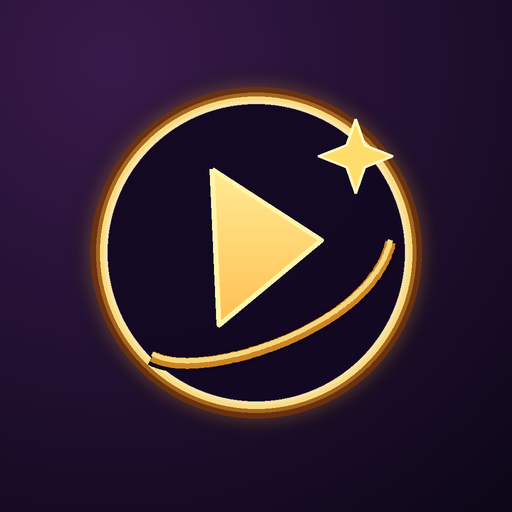
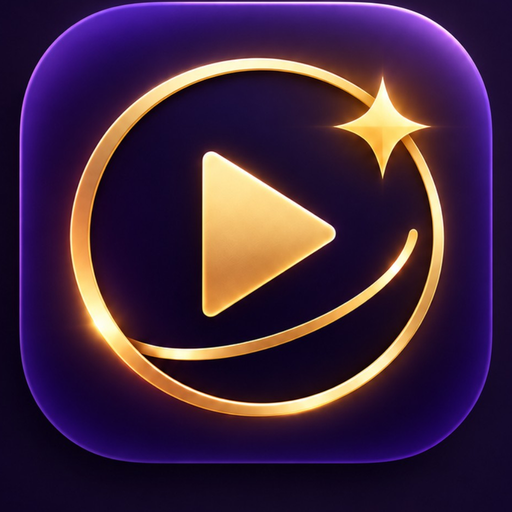
Polish Explore, sync release markers and prepare approved launcher artwork

diff --git a/guides/worldwide-entertainment-discovery/index.html b/guides/worldwide-entertainment-discovery/index.html
@@ -52,9 +52,9 @@ height="0" width="0" style="display:none;visibility:hidden"></iframe></noscript>
 
 <header><div class="brand"><a href="/" aria-label="MatchApp Ai" class="matchapp-brand-link"><img class="matchapp-wordmark" src="/assets/brand/matchapp-tv-ai-v2.svg" alt="MatchApp Ai" width="368" height="66" decoding="async"></a></div><p class="eyebrow">A practical worldwide discovery guide</p>
 <h1>What to watch, read or listen to — in your language</h1>
-<p class="intro">Choose your mood and what you want to enjoy: a movie, a series, a book, an audiobook, a magazine, music or a podcast. MatchApp’s interface supports 14 languages and helps you explore entertainment from multiple countries. Content and store availability vary by region; always confirm with the linked publisher or provider.</p>
+<p class="intro">For movies and TV series, start on Home and choose your mood, format and streaming preferences. For books, audiobooks, cooking, music, events and news, open Explore more and choose the dedicated category. MatchApp Ai supports 14 interface languages and entertainment from multiple countries. Content and store availability vary by region; always confirm with the linked publisher or provider.</p>
 <nav class="links" aria-label="Jump to discovery categories">
-<a href="/">Find what to watch</a> <a href="/ebooks/">Match e-books and audiobooks</a>
+<a href="/">Movies and TV on Home</a> <a href="/explore.html">Explore more categories</a> <a href="/ebooks/">Match e-books and audiobooks</a> <a href="/cooking/">Cooking and recipes</a>
 <a href="/discover.html">Ask AI</a> <a href="/news/">Latest news</a> <a href="/events-archive.html">Global events</a>
 </nav></header>
 <main>
@@ -65,7 +65,7 @@ height="0" width="0" style="display:none;visibility:hidden"></iframe></noscript>
 <article class="route"><h3>Books and audiobooks</h3><p>Match e-books by mood and genre. Audiobook links are checked against title and author where supported; search-only store suggestions are not proof that an exact audio edition exists.</p>
 <p><a href="/ebooks/">Find your next e-book or audiobook</a> · <a href="/guides/books-september-2026/">September book guide</a></p></article>
 <article class="route"><h3>Music, podcasts and current stories</h3><p>Explore music and podcasts or browse the current news hub. Trending headlines link to named publishers; MatchApp does not replace the original article.</p>
-<p><a href="/platforms/spotify/">Music and podcasts</a> · <a href="/guides/global-music-september-2026/">September global music guide</a> · <a href="/news/">Latest sourced headlines</a></p></article>
+<p><a href="/explore.html">Explore entertainment categories</a> · <a href="/platforms/spotify/">Music and podcasts</a> · <a href="/guides/global-music-september-2026/">September global music guide</a> · <a href="/news/">Latest sourced headlines</a></p></article>
 </div></section>
 <section aria-labelledby="regions"><h2 id="regions">Explore by region — and verify availability locally</h2>
 <p>These editorial routes introduce titles and cultural trends without promising every work is available on every platform or in every country. Your region determines which stores and streaming providers may be offered.</p>
@@ -96,7 +96,7 @@ height="0" width="0" style="display:none;visibility:hidden"></iframe></noscript>
 <section class="lang-card" id="lang-ko" lang="ko"><h2>한국어</h2><p>기분과 콘텐츠 형식을 선택하고 MatchApp에 추천을 요청하세요. 시청이나 구매 전에 거주 국가에서의 서비스 제공 여부를 확인하세요.</p><h3>오늘 밤 뭐 볼까?</h3><ul><li>기분에 맞는 영화와 시리즈 찾기</li><li>전자책과 확인된 오디오북은 어디에서 찾을까?</li></ul><p><a href="/?lang=ko">오늘 밤 뭐 볼까? →</a></p></section>
 <section class="lang-card" id="lang-zh" lang="zh"><h2>简体中文</h2><p>选择心情和内容类型，向 MatchApp 寻求推荐。观看或购买前，请确认所在国家或地区的服务可用性。</p><h3>今晚看什么？</h3><ul><li>按心情寻找电影和剧集</li><li>在哪里寻找电子书和经过核实的有声书？</li></ul><p><a href="/?lang=zh">今晚看什么？ →</a></p></section></div></section>
 <section aria-labelledby="questions"><h2 id="questions">Before you choose a title</h2>
-<h3>Can I find what to watch tonight in my country?</h3><p>Start with a mood, format and streaming preference. When MatchApp offers a viewing link, check that the provider serves your location and that the title is still available.</p>
+<h3>Can I find what to watch tonight in my country?</h3><p>On Home, choose a mood, movie or series format, and streaming preference. Home stays focused on movies and TV. For books, recipes, music, live events and current news, open <a href="/explore.html">Explore more</a>. When MatchApp Ai offers a viewing link, check that the provider serves your location and that the title is still available.</p>
 <h3>Can I find the exact audiobook edition?</h3><p>Where an exact title-and-author match is independently verified, MatchApp labels the edition accordingly. Otherwise, search links help you investigate without claiming the audiobook was verified.</p>
 <h3>Is every trending headline an original MatchApp report?</h3><p>No. The news hub organizes updates from named publishers and sends you to their original reporting. Standalone short source summaries are not treated as original reporting pages.</p>
 <p class="note">Language preference changes MatchApp’s interface; it does not create separate indexable translations of the same URL. Country-specific availability, catalogs and rankings can change at any time.</p>

diff --git a/explore.html b/explore.html
@@ -1,11 +1,20 @@
 <!doctype html>
 <html lang="en">
 <head>
+<!-- Google Tag Manager: existing MatchApp Ai container -->
+<script>(function(w,d,s,l,i){w[l]=w[l]||[];w[l].push({'gtm.start':new Date().getTime(),event:'gtm.js'});var f=d.getElementsByTagName(s)[0],j=d.createElement(s),dl=l!='dataLayer'?'&l='+l:'';j.async=true;j.src='https://www.googletagmanager.com/gtm.js?id='+i+dl;f.parentNode.insertBefore(j,f);})(window,document,'script','dataLayer','GTM-M7J3NNBN');</script>
 <meta charset="utf-8">
 <meta name="viewport" content="width=device-width,initial-scale=1">
 <title>Explore more | MatchApp Ai</title>
 <meta name="description" content="Books, recipes, news, events, and more from MatchApp Ai.">
-<meta name="robots" content="index,follow">
+<meta name="robots" content="index,follow,max-image-preview:large">
+<meta property="og:type" content="website">
+<meta property="og:site_name" content="MatchApp Ai">
+<meta property="og:title" content="Explore books, recipes, entertainment and news | MatchApp Ai">
+<meta property="og:description" content="Find verified books, cooking channels, current entertainment news, events and music destinations with MatchApp Ai.">
+<meta property="og:url" content="https://matchapp.tv/explore.html">
+<meta property="og:image" content="https://matchapp.tv/assets/brand/matchapp-share-poster.png">
+<meta name="twitter:card" content="summary_large_image">
 <link rel="canonical" href="https://matchapp.tv/explore.html">
 <link rel="icon" href="/assets/brand/matchapp-official-icon-192.png">
 <link rel="stylesheet" href="/style.css?v=187">
@@ -18,15 +27,17 @@
 <style>
 body.page-explore{margin:0;background:#14081C;color:#fff;min-height:100vh;font-family:system-ui,sans-serif}
 .ex-wrap{max-width:980px;margin:0 auto;padding:8px 16px 100px}
-.ex-hero{background:linear-gradient(135deg,rgba(20,8,28,.9),rgba(40,16,48,.85)),url('/og-image.jpg') center/cover;border:1px solid rgba(230,195,106,.35);border-radius:18px;padding:22px 20px;margin:12px 0 18px}
+.ex-hero{background:radial-gradient(ellipse at 92% 8%,rgba(116,52,176,.25),transparent 62%),linear-gradient(135deg,#21102f,#140c23 76%);border:1px solid rgba(230,195,106,.38);border-radius:22px;padding:22px 20px;margin:12px 0 18px;box-shadow:0 18px 48px rgba(0,0,0,.25),inset 0 1px 0 rgba(255,255,255,.06)}
 .ex-hero h1{margin:0 0 6px;font-size:28px;color:#E6C36A;letter-spacing:-.02em}
 .ex-hero p{margin:0;color:#ead8b0}
 .ex-posters{display:flex;gap:14px;margin:0 0 18px}
 .ex-posters a{text-decoration:none;color:#E6C36A;font-weight:800;font-size:12px}
-.ex-posters img{width:110px;height:164px;object-fit:cover;border-radius:12px;border:2px solid #E6C36A;display:block;margin-bottom:6px}
+.ex-posters img{width:110px;height:164px;object-fit:contain;background:#12091d;border-radius:13px;border:2px solid #E6C36A;display:block;margin-bottom:6px;box-shadow:0 10px 25px rgba(0,0,0,.32)}
 .ex-grid{display:grid;grid-template-columns:repeat(auto-fit,minmax(220px,1fr));gap:12px}
-.ex-card{display:flex;flex-direction:column;gap:6px;padding:18px;border-radius:16px;background:rgba(255,255,255,.035);border:1px solid rgba(230,195,106,.28);text-decoration:none;color:#fff}
-.ex-card:hover{border-color:#E6C36A}
+.ex-card{display:flex;flex-direction:column;justify-content:center;gap:7px;min-height:86px;padding:18px 19px;border-radius:18px;background:linear-gradient(125deg,rgba(68,29,90,.52),rgba(28,15,42,.86));border:1px solid rgba(230,195,106,.29);text-decoration:none;color:#fff;box-shadow:0 8px 28px rgba(0,0,0,.17),inset 0 1px 0 rgba(255,255,255,.05);transition:border-color .2s,transform .2s,box-shadow .2s}
+.ex-card:hover,.ex-card:focus-visible{border-color:#E6C36A;box-shadow:0 14px 36px rgba(0,0,0,.24);transform:translateY(-2px)}
+.ex-card:focus-visible,.ex-posters a:focus-visible{outline:2px solid #ffdf86;outline-offset:4px}
+@media(prefers-reduced-motion:reduce){.ex-card{transition:none}.ex-card:hover,.ex-card:focus-visible{transform:none}}
 .ex-card strong{color:#E6C36A;font-size:17px}
 .ex-card span{color:#cbbfa4;font-size:13px;line-height:1.35}
 </style>
@@ -43,7 +54,7 @@ body.page-explore{margin:0;background:#14081C;color:#fff;min-height:100vh;font-f
     <p>Books, recipes, news, events, and music. Home stays focused on what to watch tonight.</p>
   </section>
   <div class="ex-posters">
-    <a data-explore-pick="premiere" href="/discover.html?q=Tell%20me%20about%20the%202026%20Carrie%20series%20on%20Prime%20Video%20and%20how%20to%20watch%20it%20in%20my%20country&amp;focus=start"><img src="/ahs13-official.png?v=187" alt="Carrie — arrives October 7, 2026 on Prime Video"><small>Most Awaited</small></a>
+    <a data-explore-pick="premiere" href="/discover.html?q=Tell%20me%20about%20American%20Horror%20Story%20season%2013%20and%20where%20I%20can%20watch%20it%20in%20my%20country&amp;focus=start"><img src="/ahs13-official.png?v=187" alt="American Horror Story season 13 promotional poster"><small>Most Awaited</small></a>
     <a data-explore-pick="weekly" href="/discover.html?q=Where%20can%20I%20watch%20the%20movie%20Animals%20%282026%2C%20United%20States%29%3F%20Give%20me%20current%20streaming%2C%20rent%20and%20buy%20options%20in%20my%20country%2C%20plus%20synopsis%2C%20cast%2C%20country%20of%20production%2C%20runtime%2C%20age%20rating%20and%20reception.&amp;focus=start"><img src="https://image.tmdb.org/t/p/w780/cyltXU1lAGhRFBuHQIMWBAPj8fI.jpg" alt="Animals (2026)"><small>Week Top Choice</small></a>
   </div>
   <div class="ex-grid">

diff --git a/tools/build-world-discovery-guide.js b/tools/build-world-discovery-guide.js
@@ -171,9 +171,9 @@ height="0" width="0" style="display:none;visibility:hidden"></iframe></noscript>
 
 <header><div class="brand"><a href="/" aria-label="MatchApp Ai" class="matchapp-brand-link"><img class="matchapp-wordmark" src="/assets/brand/matchapp-tv-ai-v2.svg" alt="MatchApp Ai" width="368" height="66" decoding="async"></a></div><p class="eyebrow">A practical worldwide discovery guide</p>
 <h1>What to watch, read or listen to — in your language</h1>
-<p class="intro">Choose your mood and what you want to enjoy: a movie, a series, a book, an audiobook, a magazine, music or a podcast. MatchApp’s interface supports 14 languages and helps you explore entertainment from multiple countries. Content and store availability vary by region; always confirm with the linked publisher or provider.</p>
+<p class="intro">For movies and TV series, start on Home and choose your mood, format and streaming preferences. For books, audiobooks, cooking, music, events and news, open Explore more and choose the dedicated category. MatchApp Ai supports 14 interface languages and entertainment from multiple countries. Content and store availability vary by region; always confirm with the linked publisher or provider.</p>
 <nav class="links" aria-label="Jump to discovery categories">
-${link("/","Find what to watch")} ${link("/ebooks/","Match e-books and audiobooks")}
+${link("/","Movies and TV on Home")} ${link("/explore.html","Explore more categories")} ${link("/ebooks/","Match e-books and audiobooks")} ${link("/cooking/","Cooking and recipes")}
 ${link("/discover.html","Ask AI")} ${link("/news/","Latest news")} ${link("/events-archive.html","Global events")}
 </nav></header>
 <main>
@@ -184,7 +184,7 @@ ${link("/discover.html","Ask AI")} ${link("/news/","Latest news")} ${link("/even
 <article class="route"><h3>Books and audiobooks</h3><p>Match e-books by mood and genre. Audiobook links are checked against title and author where supported; search-only store suggestions are not proof that an exact audio edition exists.</p>
 <p>${link("/ebooks/","Find your next e-book or audiobook")} · ${link("/guides/books-september-2026/","September book guide")}</p></article>
 <article class="route"><h3>Music, podcasts and current stories</h3><p>Explore music and podcasts or browse the current news hub. Trending headlines link to named publishers; MatchApp does not replace the original article.</p>
-<p>${link("/platforms/spotify/","Music and podcasts")} · ${link("/guides/global-music-september-2026/","September global music guide")} · ${link("/news/","Latest sourced headlines")}</p></article>
+<p>${link("/explore.html","Explore entertainment categories")} · ${link("/platforms/spotify/","Music and podcasts")} · ${link("/guides/global-music-september-2026/","September global music guide")} · ${link("/news/","Latest sourced headlines")}</p></article>
 </div></section>
 <section aria-labelledby="regions"><h2 id="regions">Explore by region — and verify availability locally</h2>
 <p>These editorial routes introduce titles and cultural trends without promising every work is available on every platform or in every country. Your region determines which stores and streaming providers may be offered.</p>
@@ -202,7 +202,7 @@ ${link("/discover.html","Ask AI")} ${link("/news/","Latest news")} ${link("/even
 <p>These are useful example searches, not separate translated copies of this page. Select your language and ask naturally; results depend on source coverage and regional availability.</p>
 <div class="lang-grid">${sections}</div></section>
 <section aria-labelledby="questions"><h2 id="questions">Before you choose a title</h2>
-<h3>Can I find what to watch tonight in my country?</h3><p>Start with a mood, format and streaming preference. When MatchApp offers a viewing link, check that the provider serves your location and that the title is still available.</p>
+<h3>Can I find what to watch tonight in my country?</h3><p>On Home, choose a mood, movie or series format, and streaming preference. Home stays focused on movies and TV. For books, recipes, music, live events and current news, open <a href="/explore.html">Explore more</a>. When MatchApp Ai offers a viewing link, check that the provider serves your location and that the title is still available.</p>
 <h3>Can I find the exact audiobook edition?</h3><p>Where an exact title-and-author match is independently verified, MatchApp labels the edition accordingly. Otherwise, search links help you investigate without claiming the audiobook was verified.</p>
 <h3>Is every trending headline an original MatchApp report?</h3><p>No. The news hub organizes updates from named publishers and sends you to their original reporting. Standalone short source summaries are not treated as original reporting pages.</p>
 <p class="note">Language preference changes MatchApp’s interface; it does not create separate indexable translations of the same URL. Country-specific availability, catalogs and rankings can change at any time.</p>

diff --git a/android-studio/app/src/main/java/com/jonas/papercup/MainActivity.kt b/android-studio/app/src/main/java/com/jonas/papercup/MainActivity.kt
@@ -1077,8 +1077,8 @@ class MainActivity : AppCompatActivity() {
     }
 
     companion object {
-        const val HOME = "https://matchapp.tv/?utm_source=android_app&appBuild=42"
-        const val APP_UA = "MatchAppTVAndroid/1.1.50 MatchAppAiAndroid/1.1.50 MatchAppLaunchIntro/1"
+        const val HOME = "https://matchapp.tv/?utm_source=android_app&appBuild=52"
+        const val APP_UA = "MatchAppTVAndroid/1.1.52 MatchAppAiAndroid/1.1.52 MatchAppLaunchIntro/1"
         private const val STARTUP_PREFS = "matchapp_startup"
         private const val PREF_INTRO_SEEN = "intro_seen_v1"
         private const val PREF_REGISTERED = "registered_v1"

diff --git a/android-studio/scripts/generate_launcher_premium.py b/android-studio/scripts/generate_launcher_premium.py
@@ -1,0 +1,57 @@
+#!/usr/bin/env python3
+"""Build Android, Play and PWA launcher assets from the exact owner-approved purple/gold icon.
+Never changes Kids artwork or product functionality.
+"""
+from pathlib import Path
+from PIL import Image, ImageDraw
+import hashlib
+
+root = Path(__file__).resolve().parents[2]
+source = root / 'assets/brand/matchapp-icon-approved.png'
+image = Image.open(source).convert('RGB')
+w, h = image.size
+if w != h or w < 900:
+    raise ValueError('Expected a high-resolution square source')
+# Remove the dark presentation canvas. Preserve the complete purple tile and
+# its ambient edge instead of putting an oversized black frame on the launcher.
+lo, hi = round(w * 0.195), round(w * 0.805)
+artwork = image.crop((lo, lo, hi, hi)).resize((1024, 1024), Image.Resampling.LANCZOS)
+
+def save_png(path, size, image=artwork):
+    path.parent.mkdir(parents=True, exist_ok=True)
+    image.resize((size, size), Image.Resampling.LANCZOS).save(path, 'PNG', optimize=True)
+
+brand = root / 'assets/brand'
+# Installed browser/PWA icons must have genuine transparent outer corners.
+# The high-resolution Play/Android artwork stays full-bleed, while this
+# rounded alpha silhouette avoids a square presentation mat on home screens.
+alpha_hi = Image.new('L', (4096, 4096), 0)
+ImageDraw.Draw(alpha_hi).rounded_rectangle((148, 12, 3948, 3804), radius=770, fill=255)
+alpha = alpha_hi.resize((1024, 1024), Image.Resampling.LANCZOS)
+pwa_artwork = artwork.convert('RGBA')
+pwa_artwork.putalpha(alpha)
+save_png(brand / 'matchapp-ai-install-192.png', 192, pwa_artwork)
+save_png(brand / 'matchapp-ai-install-512.png', 512, pwa_artwork)
+save_png(brand / 'matchapp-apple-touch-icon.png', 180)
+save_png(brand / 'matchapp-icon-maskable-192.png', 192)
+save_png(brand / 'matchapp-icon-maskable-512.png', 512)
+save_png(root / 'android-studio/play/icon-512.png', 512)
+
+drawable = root / 'android-studio/app/src/main/res/drawable'
+artwork.resize((512, 512), Image.Resampling.LANCZOS).save(
+    drawable / 'matchapp_launcher_premium.webp', 'WEBP', quality=94, method=6)
+
+res = root / 'android-studio/app/src/main/res'
+for density, size in {'mdpi':48,'hdpi':72,'xhdpi':96,'xxhdpi':144,'xxxhdpi':192}.items():
+    mipmap = res / ('mipmap-' + density)
+    base = artwork.resize((size, size), Image.Resampling.LANCZOS)
+    base.save(mipmap/'ic_launcher.png', 'PNG', optimize=True)
+    # Separate legacy round resource; modern Android uses the adaptive XML mask.
+    mask = Image.new('L', (size*4, size*4))
+    ImageDraw.Draw(mask).ellipse((0,0,size*4-1,size*4-1), fill=255)
+    mask = mask.resize((size,size), Image.Resampling.LANCZOS)
+    round_icon = base.convert('RGBA')
+    round_icon.putalpha(mask)
+    round_icon.save(mipmap/'ic_launcher_round.png', 'PNG', optimize=True)
+print('Launcher assets generated from SHA-256:', hashlib.sha256(source.read_bytes()).hexdigest())
+print('Play listing, PWA and five Android densities refreshed; Kids unchanged.')

diff --git a/android-studio/scripts/verify_adult_release.py b/android-studio/scripts/verify_adult_release.py
@@ -2,6 +2,7 @@
 """Static regression guards for the adult Play package. NOT device or AdMob QA."""
 from pathlib import Path
 import json
+import re
 import xml.etree.ElementTree as ET
 
 root = Path(__file__).resolve().parents[1]
@@ -21,7 +22,11 @@ assert 'applicationId = "com.jonas.papercup"' in gradle
 assert "targetSdk = 36" in gradle and "versionCode = 52" in gradle
 assert 'package="tv.matchapp.app"' not in manifest
 assert "package com.jonas.papercup" in activity
-assert "appBuild=42" in activity
+app_version_code = re.search(r"\bversionCode\s*=\s*(\d+)", gradle).group(1)
+app_version_name = re.search(r'\bversionName\s*=\s*"([^"]+)"', gradle).group(1)
+assert f"appBuild={app_version_code}" in activity
+assert f"MatchAppTVAndroid/{app_version_name}" in activity
+assert f"MatchAppAiAndroid/{app_version_name}" in activity
 assert "isKidsUri(target)" in activity
 assert "child.post { child.destroy() }" in activity
 assert 'applicationId = "tv.matchapp.kids"' in kids

diff --git a/android-studio/README.md b/android-studio/README.md
@@ -50,9 +50,9 @@ These existing native modules are **live WebView shells**, not divergent forks o
 
 Both Android modules remain WebView shells over live production:
 
-- Standard app (`:app`) release version: **1.1.38**
-- Standard app version code: **42**
-- Standard app launch: `https://matchapp.tv/?utm_source=android_app&appBuild=42`
+- Standard app (`:app`) current source release candidate: **1.1.52** (not yet verified as published)
+- Standard app version code: **52**
+- Standard app launch: `https://matchapp.tv/?utm_source=android_app&appBuild=52`
 - October 4 Play compliance repair: the adult release remains `compileSdk 36` / `targetSdk 36` and declares only the canonical verified App Links host `matchapp.tv`; `www.matchapp.tv` is intentionally excluded because it redirects to the apex domain and Android domain verification does not follow that redirect.
 - Kids app (`:kidsapp`) release version: **1.1.25** / version code **27**
 - Kids app launch: `https://matchapp.tv/kids/?utm_source=android_kids_app&appBuild=27`
